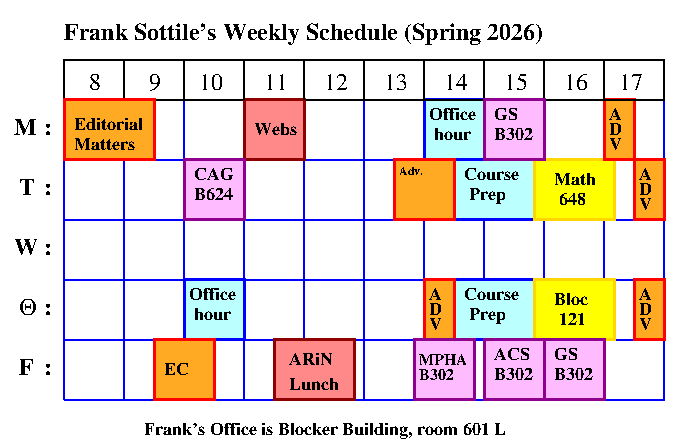
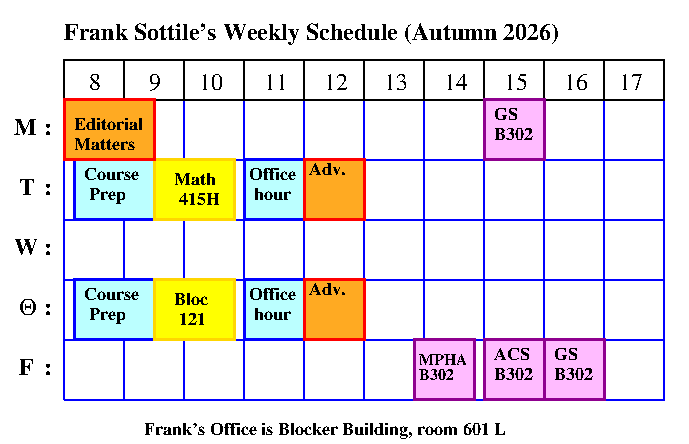
updates

diff --git a/conferences.html b/conferences.html
@@ -107,6 +107,12 @@
 
 <UL>
  <!---------------------------------------------------------------------------------------------------->
+ <li>
+   <a href="https://mega.sciencesconf.org/">MEGA 2028</a>
+   Copenhagen, Denmark 2028.  
+ </li>
+ <!---------------------------------------------------------------------------------------------------->
+  <!---------------------------------------------------------------------------------------------------->
  <li>SL-Math two concurrent programs August&ndash;December 2027:<br>
    New Trends in Tropical Geometry,
       Organizers: P. Bousseau, M. Chan, I. Itenberg, H. Markwig, K. Shaw<br>
@@ -118,7 +124,7 @@
  <li>
    SIAM Conference on Applied Algebraic Geometry
    <a href="https://www.siam.org/conferences-events/siam-conferences/ag27/">AG27</a>.
-   19 &ndash; 23 July 2026, Osnabr&ueml;ck.
+   19 &ndash; 23 July 2027, Osnabr&uuml;ck.
  </li>
  <!---------------------------------------------------------------------------------------------------->
  <!---------------------------------------------------------------------------------------------------->
@@ -135,6 +141,22 @@
    Simons Center for Geometry and Physics,
    5  &ndash; 9 April 2027.<br>
    Organizers, Leonardo Mihalcea, Igor Pak, Colleen Robichaux, and Frank Sottile.
+ </li>
+ <!---------------------------------------------------------------------------------------------------->
+ <!---------------------------------------------------------------------------------------------------->
+ <li>
+   <a href=""></a>LSU-TAMU-UH Undergraduate Research Conference,
+   Texas A&amp;M,
+   3  &ndash; 4 April 2027.<br>
+   Organizers, Wencai Liu, Daniel Onofrei, William Ott, Stephen Shipman, Andrew Torok, Fang-Tin Tu.
+ </li>
+ <!---------------------------------------------------------------------------------------------------->
+ <!---------------------------------------------------------------------------------------------------->
+ <li>
+   <a href=""></a>Numerical Algebraic Geometry,
+   IPAM,
+   30 March  &ndash; 2 April 2027.<br>
+   Organizers, .
  </li>
  <!---------------------------------------------------------------------------------------------------->
  <!---------------------------------------------------------------------------------------------------->
@@ -159,30 +181,15 @@
  <!---------------------------------------------------------------------------------------------------->
  <!---------------------------------------------------------------------------------------------------->
  <li>
+   Joint Mathematics Meetings, Chicago, January 2027.
+ </li>
+ <!---------------------------------------------------------------------------------------------------->
+ <!---------------------------------------------------------------------------------------------------->
+ <li>
    SIAM TX-LA Section Meeting,  Southern Methodist University,  
    31 October &ndash; 1 Novemner 2026.
  </li>
  <!---------------------------------------------------------------------------------------------------->
- <!---------------------------------------------------------------------------------------------------->
- <li>
-   <a href="https://www.mathunion.org/icm/icm-2026">International Congress of Mathematicians</a>, 23 &ndash; 30 July 2026,
-   Philadelphia, PA.
- </li>
- <!---------------------------------------------------------------------------------------------------->
- <!---------------------------------------------------------------------------------------------------->
- <li>
-   <a href=""></a>FoCM 2026,
-   Vienna, 8  &ndash; 18 July 2026.
-   <a href="http://focm-society.org/">Webpage of the Foundations of Computational Mathematics</a>.
-   T&uuml;rk&uuml; &Ouml;zl&uuml;m Celik, Seth Sullivant, and I are organizing a 3-day workshop on Computational Algebraic
-   Geometry, 13 &ndash; 15 July 2026.
- </li>
- <!---------------------------------------------------------------------------------------------------->
- <!---------------------------------------------------------------------------------------------------->
- <li>
-   <a href="https://mega.sciencesconf.org/">MEGA 2026</a>
-   Durham, England, 6 &ndash; 10 July 2026.
- </li>
  <!---------------------------------------------------------------------------------------------------->
 
 </UL>
@@ -199,7 +206,7 @@
 <address></address>
 <!-- hhmts start Last modified: Sat Mar 18 09:34:04 CET 2023 <!-- hhmts end -->
 <!---------------------------------------------------------------------------------------------------->
-<p>Last modified: Fri Jul 4 08:03:51 CDT 2025 by sottile</p>  
+<p>Last modified: Mon Aug 03 13:12:42 CST 2026 by sottile</p>  
 <!---------------------------------------------------------------------------------------------------->
 
 </body> </html>

diff --git a/talks.html b/talks.html
@@ -116,7 +116,53 @@
  <B><FONT SIZE=+1 color=brown>Upcoming Talks</FONT></B>
  <ul>
 
-  <!--------------------------------------------------------------------------------------------------->
+  <!---------------------------------------------------------------------------------------------------->
+  <!---------------------------------------------------------------------------------------------------->
+  <li> 
+    <FONT COLOR="AA00FF"><I>TBA</I></font>,
+    Special session on Numerical Algebraic Geometry, Joint Mathematics Meetings, Chicago January 2027.
+    <a href="talks/26/WU.txt"></a>
+  </li>
+  <!---------------------------------------------------------------------------------------------------->
+  <!---------------------------------------------------------------------------------------------------->
+  <li> 
+    <FONT COLOR="AA00FF"><I>TBA</I></font>,
+    Special session on crystals and Schubert calculus, Joint Mathematics Meetings, Chicago January 2027.
+    <a href="talks/26/WU.txt"></a>
+  </li>
+  <!---------------------------------------------------------------------------------------------------->
+  <!---------------------------------------------------------------------------------------------------->
+  <li> 
+    <FONT COLOR="AA00FF"><I>TBA</I></font>,
+    talk, 
+     Beyond Graph Laplacians, Simons center for the theory of computing, XX  November 2026.
+    <a href="talks/26/WU.txt"></a>
+  </li>
+  <!---------------------------------------------------------------------------------------------------->
+  <!---------------------------------------------------------------------------------------------------->
+  <li> 
+    <FONT COLOR="AA00FF"><I>TBA</I></font>,
+    Plenary talk, 
+     SIAM TX-LA Annual Meeting, Southern Methodist University, 31  October--2 November 2026.
+    <a href="talks/26/WU.txt"></a>
+  </li>
+  <!---------------------------------------------------------------------------------------------------->
+  <!---------------------------------------------------------------------------------------------------->
+  <li> 
+    <FONT COLOR="AA00FF"><I>Alternating monodromy from an involution</I></font>,
+    Special Session on Applied Algebra, 
+     AMS Fall Eastern Session Meeting, Kennesaw State University, 10-11  October 2026.
+   <a href="talks/26/Alternating.txt">abstract</a>
+  </li>
+  <!---------------------------------------------------------------------------------------------------->
+  <!---------------------------------------------------------------------------------------------------->
+  <li> 
+    <FONT COLOR="AA00FF"><I>Reciprocal Discriminanta</I></font>,
+    Combinatorics seminar, 
+     Georgia Tech, 9 October 2026.
+     <a href="talks/26/RDisc.txt">abstract</a>
+  </li>
+  <!---------------------------------------------------------------------------------------------------->
   <!---------------------------------------------------------------------------------------------------->
   <li> 
     <FONT COLOR="AA00FF"><I>TBA</I></font>,
@@ -127,12 +173,20 @@
   <!---------------------------------------------------------------------------------------------------->
   <!---------------------------------------------------------------------------------------------------->
   <li> 
+    <FONT COLOR="AA00FF"><I>Reciprocal Discriminants</I></font>,
+    Symbolic Computation Seminar,
+     North Carolina State University, 29 September  2026.
+    <a href="talks/26/RDisc.txt">abstract</a>
+  </li>
+  <!---------------------------------------------------------------------------------------------------->
+  <!----------------------------------------------------------------
+  <li> 
     <FONT COLOR="AA00FF"><I>TBA</I></font>,
     Keynote Speaker (virtual),
     International Symposium on Current Trends in Mathematical Sciences,
     Gombe State University, Nigeria, April 2026.
     <a href="talks/23/SAGA.txt"></a>
-  </li>
+  </li>------------------------------------>
   <!---------------------------------------------------------------------------------------------------->
    <!--------------------------------------------------------------------------------------------------->
 </ul>

diff --git a/research/collaborators.html b/research/collaborators.html
@@ -230,10 +230,6 @@ I have had the good fortune to work with the following mathematicians.
 <dd><IMG SRC="images/dots/one.png">
     <A HREF="https://en.wikipedia.org/wiki/Jacob_E._Goodman">Jacob (Eli) Goodman</A><sup>&#134;</sup>, CUNY.
 
-<!--  Propitious  -->
-<dd><IMG SRC="images/dots/vapourware.png">
-    <A HREF="https://math.hawaii.edu/wordpress/egross/">Elizabeth Gross</a>,  University of Hawai'i at Manoa.
-  
 <!-- alphaCertified 2012  Newton 2012     PrimalDual 2014  KhRoDual 2014  -->
 <!-- NumGalois 2016       multiproj 2019  NNLA 2023       -->
 <dd><IMG SRC="images/dots/seven.png">
@@ -330,10 +326,6 @@ I have had the good fortune to work with the following mathematicians.
     <A HREF="http://www.math.ias.edu/~phares/macpherson/RDM.html">
     R. MacPherson</A>, Institute for Advanced Study, Princeton.
 
-<!-- EnrichedWronski -->
-<dd><IMG SRC="images/dots/vapourware.png">
-    <A HREF="">Stephen McKean</A>, Harvard University.
-
 <!-- RealRoots 2022 -->
 <dd><IMG SRC="images/dots/one.png">
     <A HREF="https://github.com.io/">Kelly Maluccio</A>, Austin Community College
@@ -371,11 +363,6 @@ I have had the good fortune to work with the following mathematicians.
 <dd><IMG SRC="images/dots/six.png">
      <a href="https://sites.google.com/site/mounirnisse1/">Mounir Nisse</a>, Xiamen University Malaysia.
 
-
-<!--  Propitious  -->
-<dd><IMG SRC="images/dots/vapourware.png">
-    <A HREF="https://www.ikennanometa.com/">Ikenna Nometa</a>,  University of Hawai'i at Manoa.
-  
 
      
 <!-- hessian 2007 -->
@@ -422,6 +409,10 @@ I have had the good fortune to work with the following mathematicians.
 <!-- TypeA 2018 -->
 <dd><img src="images/dots/one.png">
   <a href="https://www.cmi.ac.in/~vijayr/">Vijay Ravikumar</a>, Chennai Mathematical Institute.
+
+<!-- Landscape 2026 -->
+<dd><img src="images/dots/one.png">
+  <a href="https://www.margarethregan.com/">Margaret Regan</a>, Grand Valley State University.
   
 <!-- SOS 2004 -->
 <dd><IMG SRC="images/dots/one.png">
@@ -523,6 +514,13 @@ I have had the good fortune to work with the following mathematicians.
 <dd><IMG SRC="images/dots/four.png">
    <A HREF="http://math.boisestate.edu/~zteitler/">Zach Teitler</A>, Boise
    State, Idaho.
+
+
+   
+<!-- Landscape 2026 -->
+<dd><img src="images/dots/one.png">
+  <a href="https://sites.google.com/view/simontelen/home-page">Simon Telen</a>, 
+    MPI MiS, Leipzig.
   
 <!-- spheres 2002  2l2s 2003  realquad 2005  Snowbird 2008  daag 2019?-->
 <dd><IMG SRC="images/dots/five.png">
@@ -598,7 +596,7 @@ I have had the good fortune to work with the following mathematicians.
     of Illinois.
 
 <!--  Increasing 2025 -->
-<dd><IMG SRC="images/dots/One.png">
+<dd><IMG SRC="images/dots/vapourware.png">
     <A HREF="https://tianyi-math.github.io/">Tianyi Yu</a>, UQAM.
 
 <!-- Mod4 2012  Newmodfour 2014  Injectivity 2017  GenWronski 2020 -->

diff --git a/conferences/index.html b/conferences/index.html
@@ -46,21 +46,6 @@
  </li>
  <!---------------------------------------------------------------------------------------------------->
  <!---------------------------------------------------------------------------------------------------->
- <li>
-   <a href=""></a>FoCM 2026,
-   Vienna, 8  &ndash; 18 July 2026.
-   <a href="http://focm-society.org/">Webpage of the Foundations of Computational Mathematics</a>.
-   T&uuml;rk&uuml; &Ouml;zl&uuml;m Celik, Seth Sullivant, and I are organizing a 3-day workshop on Computational Algebraic
-   Geometry, 13 &ndash; 15 July 2026.
- </li>
- <!---------------------------------------------------------------------------------------------------->
- <!---------------------------------------------------------------------------------------------------->
- <li>
-   <a href="https://mega.sciencesconf.org/">MEGA 2026</a>
-   Durham, England, 6 &ndash; 10 July 2026.  
- </li>
- <!---------------------------------------------------------------------------------------------------->
- <!---------------------------------------------------------------------------------------------------->
 </ul>
 <!------------------------------------------------------------------------>
 <hr>
@@ -83,6 +68,21 @@
 <!------------------------------------------------------------------------>
 <B><FONT SIZE=+1 color=brown>Past organizing</FONT></B>
 <UL>
+ <!---------------------------------------------------------------------------------------------------->
+ <!---------------------------------------------------------------------------------------------------->
+ <li>
+   <a href=""></a>FoCM 2026,
+   Vienna, 8  &ndash; 18 July 2026.
+   <a href="http://focm-society.org/">Webpage of the Foundations of Computational Mathematics</a>.
+   T&uuml;rk&uuml; &Ouml;zl&uuml;m Celik, Seth Sullivant, and I are organizing a 3-day workshop on Computational Algebraic
+   Geometry, 13 &ndash; 15 July 2026.
+ </li>
+ <!---------------------------------------------------------------------------------------------------->
+ <!---------------------------------------------------------------------------------------------------->
+ <li>
+   <a href="https://mega.sciencesconf.org/">MEGA 2026</a>
+   Durham, England, 6 &ndash; 10 July 2026.  
+ </li>
  <!---------------------------------------------------------------------------------------------------->
  <!---------------------------------------------------------------------------------------------------->
  <li>

diff --git a/conferences/TAGS27/index.html b/conferences/TAGS27/index.html
@@ -40,29 +40,25 @@
       <a href="../TAGS22/index.html">2022</a>.
       <br><br> 
 
-<!--      <b>Speakers:</b><br>
+    <b>Speakers:</b><br>
 
-  &nbsp;  <a href=" https://math.rice.edu/~sf31/">Sarah Frei</a>      &nbsp;
+   &nbsp;  <a href=""></a>Lea Beneish      &nbsp;
+    University of North Texas  <br>
+
+    
+   &nbsp;  <a href="https://timduff35.github.io/timduff35/">Timothy Duff</a>      &nbsp;
+              University of Missouri<br>
+      
+  &nbsp;  <a href="https://math.rice.edu/~sf31/"></a>David Urbanik      &nbsp;
                Rice University<br>
+ <!--       
+     
+  &nbsp;  <a href=""></a>      &nbsp;
+              <br>
+     
+  &nbsp;  <a href=""></a>      &nbsp;
+              <br>
       
-  &nbsp;  <a href="https://web.ma.utexas.edu/users/jkileel/">Joe Kileel</a>      &nbsp;
-              University of Texas <br>
-      
-  &nbsp;  <a href="">Justin Lacini</a>      &nbsp;
-              Texas A&amp;M University <br>
- 
-  &nbsp;  <a href=" https://sites.google.com/site/jacksonsalvatoremorrow/">Jackson Morrow</a>      &nbsp;
-              University of North Texas <br>
- 
-  &nbsp;  <a href=" https://www.math.utoronto.ca/hspink/">Hunter Spink</a>      &nbsp;
-              University of  Toronto <br>
- 
-    &nbsp;  <a href="https://sites.google.com/uic.edu/kftucker">Kevin Tucker</a>      &nbsp;
-              University of Illinois at Chicago <br>
- 
-  &nbsp;  <a href="https://sites.google.com/view/rachel-webb">Rachel Webb</a>      &nbsp;
-              Cornell University <br>
- 
  -->
    </td>
   </tr>

diff --git a/HUR/index.html b/HUR/index.html
@@ -27,7 +27,7 @@
 <ul>
 <!---------------------------------------------------------------------------------------------------->
 <li>
-Over 60 TAMU mathematics uundergraduates took the 86th annual  William Lowell Putnam Mathematical Competition  on December 6, 2025.
+Over 60 TAMU mathematics undergraduates took the 86th annual  William Lowell Putnam Mathematical Competition  on December 6, 2025.
 Two students,      Mark Shiliaev and  McKinley Xie, finished in the top 200, and Joshua Im in the top 500.
 The Texas A&amp;M team  finished in first-place finish in the MAA Texas Section (a first for them).
 </li>
@@ -50,6 +50,12 @@ He is the first every Churchill Scholar from Texas A&amp;M University.
 <!---------------------------------------------------------------------------------------------------->
   <li>
     Undergraduate Research Symposium, TBA October 2026.   Elevator lobby, Second floor of Blocker.
+  </li>
+<!---------------------------------------------------------------------------------------------------->
+
+<!---------------------------------------------------------------------------------------------------->
+  <li>
+    TAMU-UH-LSU Undergraduate Mathematics Conference at Texas A&amp;M. 3&ndash;4 April 2027. 
   </li>
 <!---------------------------------------------------------------------------------------------------->
 

diff --git a/HUR/URS_25.html b/HUR/URS_25.html
@@ -7,7 +7,7 @@
 <meta http-equiv="Content-Type" content="text/html; charset=iso-8859-1">
 </HEAD>
 <!---------------------------------------------------------------------------------------------------->
-<h2><font color=maroon>2025 Mathematics Undergraduate Research Sympoisum</font></h2>
+<h2><font color=maroon>2025 Mathematics Undergraduate Research Symposium</font></h2>
 <!---------------------------------------------------------------------------------------------------->
 
 This is a yearly event at which Texas A&amp;M undergraduate students present their REU work in an informal evening poster
@@ -269,6 +269,6 @@ Generously supported by the Smith fund and the Department of Mathematics at Texa
 <!---------------------------------------------------------------------------------------------------->
 <hr>
 <!---------------------------------------------------------------------------------------------------->
-<p>Last modified: Tue Sep 30 09:49:26 CDT 2025 by sottile</p>  
+<p>Last modified: Fri Jul 10 15:45:48 BST 2026 by sottile</p>  
 </BODY>
 </HTML>

diff --git a/service.html b/service.html
@@ -178,7 +178,7 @@
   <!----------------------------------------------------------->
   <li>Member of <a href="https://www.birs.ca/">BIRS</a>
     <a href="https://www.birs.ca/about/governance/scientific-management/scientific[advisory-board/current-members">Scientific Advisory
-    Board</a> 2017&ndash;  &nbsp; Appointed for a second term.
+    Board</a> 2017&ndash;2023.
   </li>
   <!----------------------------------------------------------->
   <li><a href="https://www.cimpa.info/en/directory_of_members"</a>Member</a> of <a href="https://www.cimpa.info/">CIMPA</a>, 2018&mdash;<br>
